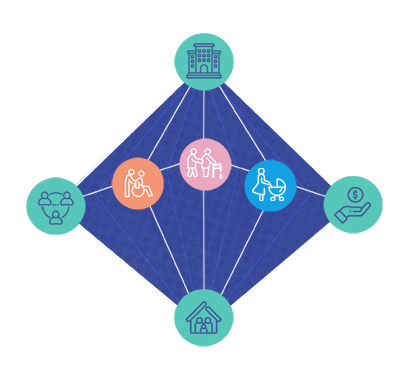
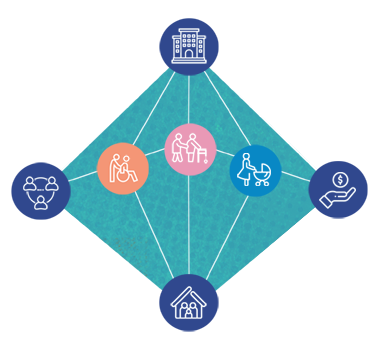
Modifico página descripcion-sicba.html

diff --git a/unlogged/descripcion-sicba.html b/unlogged/descripcion-sicba.html
@@ -9,18 +9,20 @@
             flex-direction: row;
             justify-content: center;
             align-items: center;
-            gap: 20px;
+            gap: 40px;
         }
         #sistema {
             background-position: center ;
             background-size: auto 100% ;
             background-position: repeat-x ;
-            background-image: url(img/cuidadosvectores_03.jpg);
+            background-image: url(img/cuidadosvectores_verde.jpg);
+            padding-top: 3%;
+            padding-bottom: 3%;
         }
         #diamante-cuidado{
             height: 320px
         }
-        .titulo_descripcion { font-weight: bold; color: #f0ae58; font-size: 1.1em }
+        .titulo_descripcion { font-weight: bold; color: #3a4c9b; font-size: 1.1em }
         .texto_descripcion { margin-top:20px; color: white; line-height: 1.4em; }
         .caja_textos {width:415px; max-width: 90vw}
     </style>
